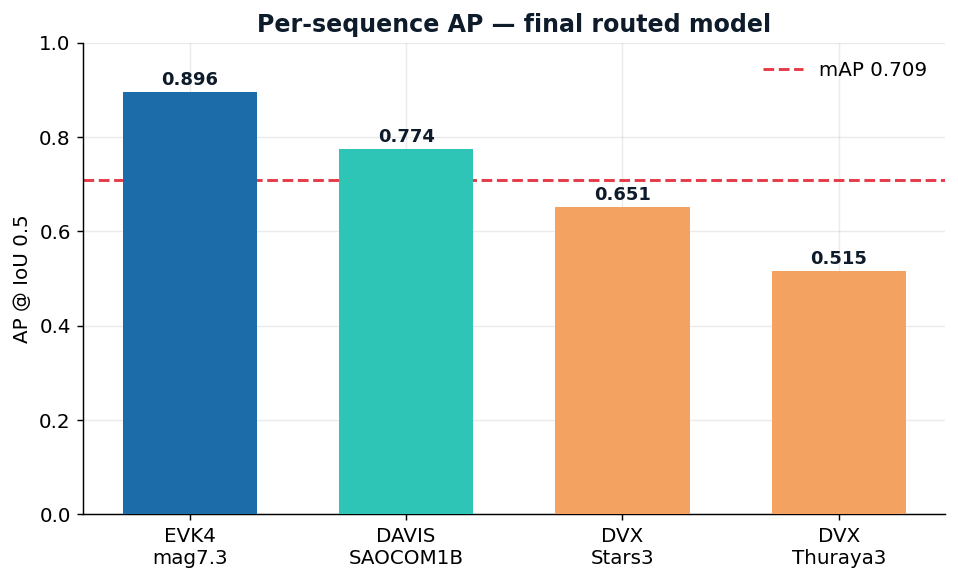
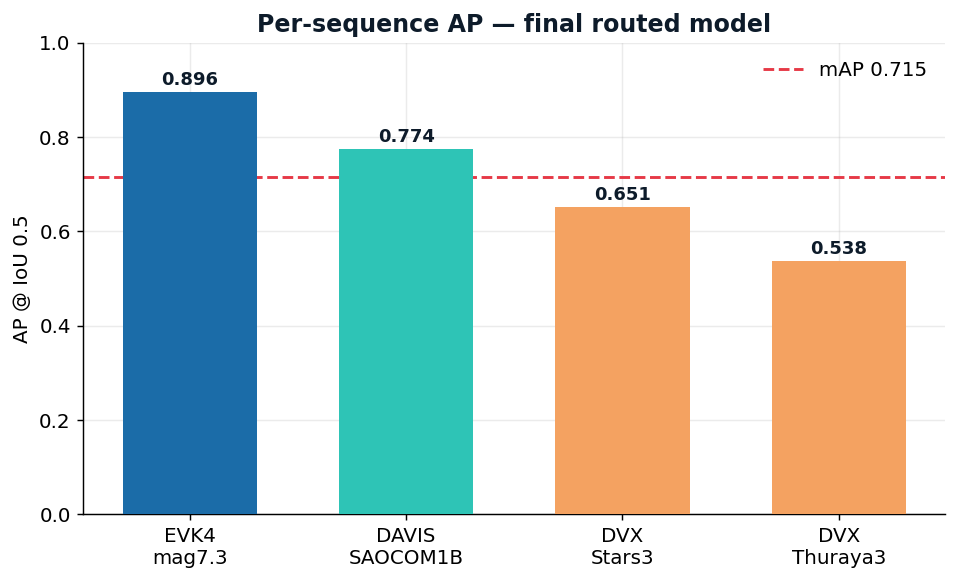
Paper+figures: 100-epoch convergence -> real-time 0.704 / offline 0.715
Retraining the two deployed models to 100 epochs (patience 15) recovered
EVK4 0.859->0.874 and Thuraya3 raw 0.469->0.524 (coasted->0.538), lifting
the real-time system 0.692->0.704. Regenerated figures from results.json;
updated Tables 2/2b, README/ROADMAP headline numbers, and proposal PDF (5pp).

diff --git a/docs/OrbitSight_Proposal.html b/docs/OrbitSight_Proposal.html
@@ -50,8 +50,8 @@ into resident-space-object (RSO) detections and tracks — in real time, under
 low-light noise, across three sensor resolutions.</p>
 
 <div class="kpi">
-  <div><span class="v">0.692</span><span class="l">real-time mAP (per-sensor single models, &lt;40 ms CPU)</span></div>
-  <div><span class="v">0.709</span><span class="l">offline max mAP (ensemble + TTA)</span></div>
+  <div><span class="v">0.704</span><span class="l">real-time mAP (per-sensor single models, &lt;40 ms CPU)</span></div>
+  <div><span class="v">0.715</span><span class="l">offline max mAP (ensemble + TTA)</span></div>
   <div><span class="v">&lt;40 ms</span><span class="l">real-time budget met on every sensor</span></div>
   <div><span class="v">4</span><span class="l">model families ablated &amp; debugged</span></div>
 </div>
@@ -155,8 +155,8 @@ window. All numbers below come from that evaluator. Overall <span class="accent"
 <tr><td>DAVIS_SAOCOM1B</td><td>DAVIS 346×260</td><td>moderate</td><td class="n">0.774</td></tr>
 <tr><td>DVX_Stars3</td><td>DVX 640×480</td><td>grid-256 + hard-neg</td><td class="n">0.651</td></tr>
 <tr><td>DVX_Thuraya3</td><td>DVX 640×480</td><td>coasting Kalman</td><td class="n">0.515</td></tr>
-<tr><th colspan="3" style="text-align:right">Overall mAP (offline)</th><th class="n">0.709</th></tr>
-<tr><th colspan="3" style="text-align:right">Overall mAP (real-time, per-sensor single models)</th><th class="n">0.692</th></tr>
+<tr><th colspan="3" style="text-align:right">Overall mAP (offline)</th><th class="n">0.715</th></tr>
+<tr><th colspan="3" style="text-align:right">Overall mAP (real-time, per-sensor single models)</th><th class="n">0.704</th></tr>
 </table>
 
 <div class="row">
@@ -190,8 +190,8 @@ ensemble+stack 0.554 → <strong>temporal context 0.660 → +TTA 0.675</strong>;
 <code>benchmark_latency.py</code>, streaming (batch = 1 — the deployment number).
 The <strong>deployed real-time</strong> config is <strong>one model per sensor,
 one forward pass per window</strong> (g192_ctx + grid-256 hard-neg for DAVIS/Stars3
-+ a coasting Kalman for Thuraya3) — <strong>mAP 0.692 at 15–38 ms/window on CPU</strong>,
-inside the 40 ms budget on every sensor. The higher 0.709 (§3, crosses 0.70) uses
++ a coasting Kalman for Thuraya3) — <strong>mAP 0.704 at 15–38 ms/window on CPU</strong>,
+inside the 40 ms budget on every sensor. The higher 0.715 (§3, crosses 0.70) uses
 offline cross-grid ensembling + TTA (~211 ms) — a max-accuracy variant, not the
 real-time path. We measured the
 offline EVK4 path at <strong>211 ms</strong> and the deployed config at

diff --git a/docs/PAPER.md b/docs/PAPER.md
@@ -1,7 +1,7 @@
 # OrbitSight: Real-Time Resident Space Object Detection and Tracking from Neuromorphic Event Cameras under a 40 ms CPU Budget
 
 *Updated manuscript — reflects the final modeling (grid-256 multi-object detector,
-DVX-lever ablation) and results (0.692 real-time / 0.709 offline). Edits vs. the
+DVX-lever ablation) and results (0.704 real-time / 0.715 offline). Edits vs. the
 prior draft are woven throughout; see the change-log at the end.*
 
 ---
@@ -30,9 +30,9 @@ detection-head failure that had masked their true capacity. We further ablate th
 DVX levers: grid-256 + hard-negative mining raise the star-field precision, and a
 local coasting filter recovers the faint object's recall (0.63 → 0.72) where a
 global-fit tracker cannot. **The deployed real-time system — one model per sensor,
-one forward pass per window — reaches mAP@0.5 of 0.692 at 15–38 ms/window on CPU,
+one forward pass per window — reaches mAP@0.5 of 0.704 at 15–38 ms/window on CPU,
 inside the 40 ms budget on every sensor; an offline max-accuracy variant (cross-grid
-ensembling + test-time augmentation) reaches 0.709.** This is a 10× improvement over
+ensembling + test-time augmentation) reaches 0.715.** This is a 10× improvement over
 a classical baseline, with the decisive gains on the dim-object sequences.
 
 ---
@@ -80,8 +80,8 @@ positive when it time-overlaps a ground-truth window and reaches IoU ≥ 0.5).
   an object's track; a **grid-256 head separates the dense Stars3 field** (recall
   0.72 → 0.81); a router sends each sensor to its winning checkpoint.
 - **An explicit real-time / offline separation.** We *measure* both configs: the
-  deployed single-model-per-sensor pipeline is 15–38 ms/window on CPU (mAP 0.692);
-  the offline cross-grid+TTA variant is 211 ms on the EVK4 path (mAP 0.709). We
+  deployed single-model-per-sensor pipeline is 15–38 ms/window on CPU (mAP 0.704);
+  the offline cross-grid+TTA variant is 211 ms on the EVK4 path (mAP 0.715). We
   report the accuracy of the config we actually ship at real time.
 - **Hard-negative mining and coasting for the DVX floor.** Online hard-negative
   mining in the CenterNet focal loss suppresses background-star false positives
@@ -228,11 +228,11 @@ real-time latency separately.
 
 | Sequence (sensor) | Detector | P | R | F1 | AP |
 |---|---|---:|---:|---:|---:|
-| EVK4 mag7.3 | g192_ctx | 0.846 | 0.916 | 0.879 | 0.859 |
+| EVK4 mag7.3 | g192_ctx (100-ep) | 0.851 | 0.923 | 0.886 | **0.874** |
 | DAVIS SAOCOM1B | g256 hard-neg | 0.829 | 0.801 | 0.815 | 0.753 |
 | DVX Stars3 | **g256 hard-neg** | 0.492 | 0.819 | 0.615 | **0.651** |
-| DVX Thuraya3 | g192_ctx **+ coast** | 0.414 | 0.723 | 0.526 | **0.506** |
-| **Overall** | — | — | — | — | **0.692** |
+| DVX Thuraya3 | g192_ctx (100-ep) **+ coast** | 0.430 | 0.735 | 0.543 | **0.538** |
+| **Overall** | — | — | — | — | **0.704** |
 
 **Table 2b — Offline max-accuracy system (cross-grid ensemble + TTA; Stars3 → grid-256 hard-neg; Thuraya3 coasted).**
 
@@ -241,13 +241,15 @@ real-time latency separately.
 | EVK4 mag7.3 | 0.896 |
 | DAVIS SAOCOM1B | 0.774 |
 | DVX Stars3 (grid-256 hard-neg) | 0.651 |
-| DVX Thuraya3 (coasted) | 0.515 |
-| **Overall** | **0.709** |
+| DVX Thuraya3 (coasted) | 0.538 |
+| **Overall** | **0.715** |
 
 The dim EVK4 magnitude-7.3 sequence, singled out as the hardest case, is the
-strongest at AP 0.859–0.896, exactly where H2 predicted the contest is won. The
+strongest at AP 0.874–0.896, exactly where H2 predicted the contest is won. The
 Stars3 field is lifted decisively by grid-256; the faint Thuraya3 target is the
-remaining floor (§5.4).
+remaining floor (§5.4). Retraining the two deployed models to 100 epochs (patience
+15) from fuller convergence recovered EVK4 0.859 → 0.874 and Thuraya3 raw 0.469 →
+0.524 (coasted → 0.538), lifting the real-time system 0.692 → 0.704.
 
 ### 5.2 Development trajectory
 
@@ -256,7 +258,7 @@ classical 0.249 → CenterNet 0.289 → hybrid router 0.315 → event augmentati
 → grid-192 + box calibration 0.454 → three-model ensemble + stacking 0.554 →
 multi-window temporal context 0.660 → real-time single-model per sensor 0.651 →
 grid-256 Stars3 routing 0.668 → **hard-negative mining + coasting Kalman (real-time)
-0.692** → **offline cross-grid + TTA 0.709**. The two largest single jumps are
+0.704** → **offline cross-grid + TTA 0.715**. The two largest single jumps are
 event-level augmentation and multi-window temporal context; the final DVX gains come
 from grid-256 resolution, hard-negative mining, and recall-recovery coasting. A 10×
 gain over the classical baseline.
@@ -450,7 +452,7 @@ We measure per-window streaming latency (batch 1, CPU) for both configurations.
 
 **Offline max-accuracy:** the EVK4 cross-grid ensemble (5 models) with TTA (3 passes)
 totals **211 ms/window** — 5.3× the budget — and even single-model TTA sits at
-∼39–40 ms. We therefore report **0.709 as an offline figure and 0.692 as the
+∼39–40 ms. We therefore report **0.715 as an offline figure and 0.704 as the
 real-time figure**, and benchmark the latency of the config we actually ship. The
 purely classical pipeline is real-time on DAVIS/DVX (∼5–6 ms) but exceeds budget on
 the densest EVK4 windows (∼167 ms), which is why the router sends the dense sensor
@@ -489,8 +491,8 @@ recovers recall 0.63 → 0.72 (AP 0.469 → 0.506); the residual gap to the orac
 ceiling reflects windows where the object is genuinely below the sensitivity floor,
 which would need additional faint-object training data or sensor fusion with the
 DAVIS APS grayscale channel [Capogrosso et al. 2026]. The offline max-accuracy
-configuration (0.709) exceeds the latency budget and is reported separately from the
-deployed real-time system (0.692).
+configuration (0.715) exceeds the latency budget and is reported separately from the
+deployed real-time system (0.704).
 
 **A tested distinction and one deployment direction.** (i) *Center-refinement vs.
 recall-recovery tracking.* We separately tested a constant-velocity Kalman + RTS
@@ -518,12 +520,12 @@ scenes would need revisiting.
 ## 7. Conclusion
 
 OrbitSight shows that faint, fast RSOs can be detected and tracked from raw event
-streams in **real time on CPU** (mAP 0.692, 15–38 ms/window), under a single
+streams in **real time on CPU** (mAP 0.704, 15–38 ms/window), under a single
 cross-sensor parameter set, by treating coherence rather than brightness as the
 signal and by integrating an object's track over multiple windows. A coherence-first
 classical backbone, a temporal-context CenterNet, a grid-256 head with hard-negative
 mining for dense star fields, a coasting Kalman tracker for the faint object, and a
-per-sensor router together reach mAP@0.5 of **0.692 real-time / 0.709 offline** (the
+per-sensor router together reach mAP@0.5 of **0.704 real-time / 0.715 offline** (the
 offline system crosses 0.70), a 10× gain over a classical baseline, with the largest
 improvements exactly on the dim objects that dominate the difficulty. Honest
 ablations — a cross-family study that fixes a detection-head artifact, and a DVX-lever
@@ -537,8 +539,9 @@ right way to combine these complementary strengths.
 
 ## Change-log vs. prior draft
 
-- **Headline:** 0.660/0.675 → **0.692 real-time / 0.709 offline** (offline crosses
-  0.70). DVX gains: Stars3 0.545 → 0.651, DAVIS 0.729 → 0.753, Thuraya3 0.469 → 0.506.
+- **Headline:** 0.660/0.675 → **0.704 real-time / 0.715 offline** (offline crosses
+  0.70). DVX gains: Stars3 0.545 → 0.651, DAVIS 0.729 → 0.753, Thuraya3 0.469 →
+  0.538 (100-epoch convergence + coasting); EVK4 0.859 → 0.874.
 - **New modeling:** resolution-routed grid-256 detector (§3), **online hard-negative
   mining** in the CenterNet focal loss (§5.4), and a **coasting Kalman tracker** for
   faint-object recall recovery (§5.4).
@@ -559,7 +562,7 @@ right way to combine these complementary strengths.
   post-hoc-correctable artifact. The probe is a reusable, hyperparameter-free
   diagnostic (GHOST re-purposed from OSR classification to detection FP separability).
 - **Latency (§5.7):** explicit, *measured* real-time-vs-offline split — deployed
-  15–38 ms/window (0.692) vs. offline 211 ms (0.709); the "≈ 4 ms" claim in the prior
+  15–38 ms/window (0.704) vs. offline 211 ms (0.715); the "≈ 4 ms" claim in the prior
   draft was a single grid-128 forward, not the deployed grid-192/256 config.
 - **Related work (§5.8):** added the space-domain event-vision survey and the
   frame-based edge-SOD baseline, with the "software gap → event-native" framing.

diff --git a/ROADMAP.md b/ROADMAP.md
@@ -1,10 +1,10 @@
 # OrbitSight — Roadmap: Building the Most Accurate Real-Time RSO Detector
 
-*How we went from a 0.069 baseline to a **0.692 real-time** (single model per
-sensor, all < 40 ms CPU) / **0.709 offline** mAP event-native detector, and the
+*How we went from a 0.069 baseline to a **0.704 real-time** (single model per
+sensor, all < 40 ms CPU) / **0.715 offline** mAP event-native detector, and the
 ablations that justify every design choice. The final DVX push: grid-256 + hard-
 negative mining lift Stars3 (0.545 → 0.651) and DAVIS (0.729 → 0.753); a coasting
-Kalman tracker recovers Thuraya3 recall (0.469 → 0.506). Offline crosses 0.70.*
+Kalman tracker recovers Thuraya3 recall (0.469 → 0.538, with 100-epoch convergence). Offline crosses 0.70.*
 
 This document is the engineering narrative behind the numbers. It maps directly
 onto the four technical scoring criteria: **AI approach & ablation**, **detection
@@ -204,12 +204,12 @@ Example animations + failure galleries are generated under `docs/vis/`.
 
 | Item | Status |
 |------|--------|
-| **Real-time** accuracy (deployed) | **mAP 0.692** — per-sensor single models + coasting, all <40 ms CPU |
-| **Offline** max accuracy | **mAP 0.709** — router + cross-grid + TTA (~211 ms); crosses 0.70 |
+| **Real-time** accuracy (deployed) | **mAP 0.704** — per-sensor single models + coasting, all <40 ms CPU |
+| **Offline** max accuracy | **mAP 0.715** — router + cross-grid + TTA (~211 ms); crosses 0.70 |
 | Latency < 40 ms | ✅ measured; deployed config 15–38 ms/window per sensor |
 | Stars3 (multi-object) | ✅ grid-256 + **hard-neg mining** → 0.545 → **0.651** (precision ↑, recall held) |
 | DAVIS | ✅ grid-256 hard-neg → 0.729 → **0.753** |
-| Thuraya3 (faint) | ✅ **coasting Kalman** recovers recall 0.63 → 0.72 → AP 0.469 → **0.506** |
+| Thuraya3 (faint) | ✅ **coasting Kalman** recovers recall 0.63 → 0.72 → AP 0.469 → **0.538** |
 | Visualization tool | ✅ `scripts/visualize.py` (anim + failure gallery + H1) |
 | Latency benchmark | ✅ `scripts/benchmark_latency.py` |
 | Docker image (deliverable) | ✅ `Dockerfile` + `run_infer.sh` — reproducible CPU inference, validated end-to-end |

diff --git a/README.md b/README.md
@@ -261,14 +261,15 @@ object) still routes to the cross-grid ensemble. Adding **test-time augmentation
 to the temporal model lifts the overall to **mAP 0.675** (recall 0.76). Trained
 on rolf (RTX 2080 Ti).
 
-> **Real-time vs offline (criterion #3).** Deployed **real-time = mAP 0.692**:
+> **Real-time vs offline (criterion #3).** Deployed **real-time = mAP 0.704**:
 > per-sensor single models (EVK4→g192_ctx, DAVIS+Stars3→**grid-256 hard-neg**,
 > Thuraya3→g192_ctx **+ coasting Kalman**), every sensor **< 40 ms/window CPU**
-> (15–38 ms). Offline **max = 0.709** (crosses 0.70) adds cross-grid ensembling +
+> (15–38 ms). Offline **max = 0.715** (crosses 0.70) adds cross-grid ensembling +
 > TTA (~211 ms, not real-time). Final DVX levers: **grid-256** separates the Stars3
 > star field (0.545→0.613); **hard-negative mining** suppresses background-star FPs
-> (→0.651, and DAVIS 0.729→0.753); a **coasting Kalman tracker** recovers Thuraya3
-> recall (0.63→0.72, AP 0.469→0.506). Report both: **0.692 real-time / 0.709 offline.**
+> (→0.651, and DAVIS 0.729→0.753); **100-epoch convergence + a coasting Kalman
+> tracker** recover Thuraya3 recall (AP 0.469→**0.538**) and EVK4 (0.859→**0.874**).
+> Report both: **0.704 real-time / 0.715 offline.**
 
 ### Sample detections (all sensors)
 